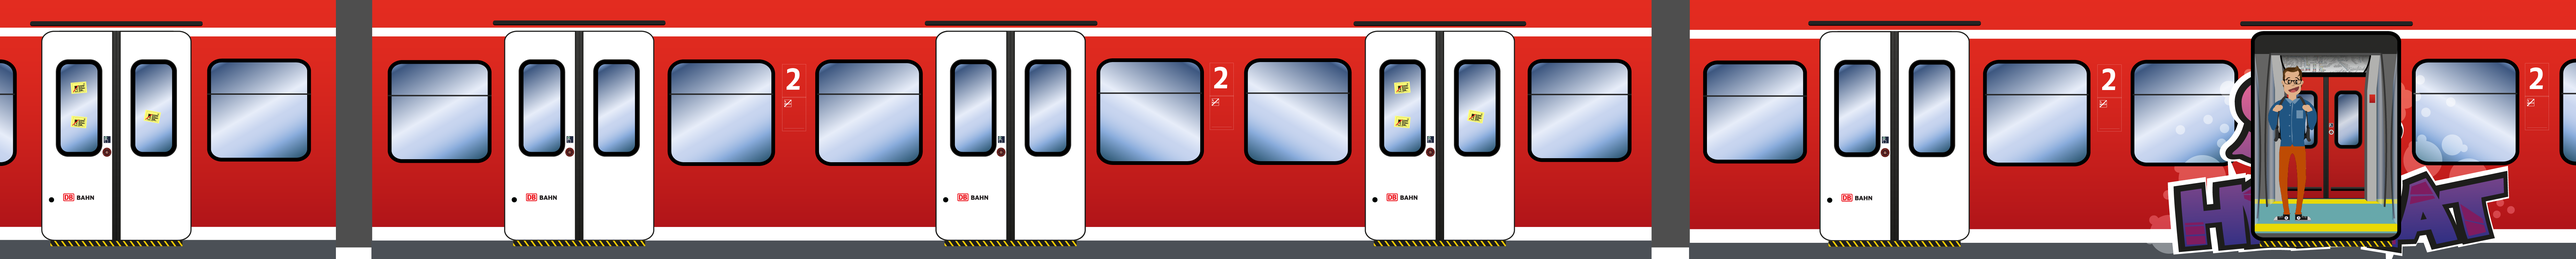
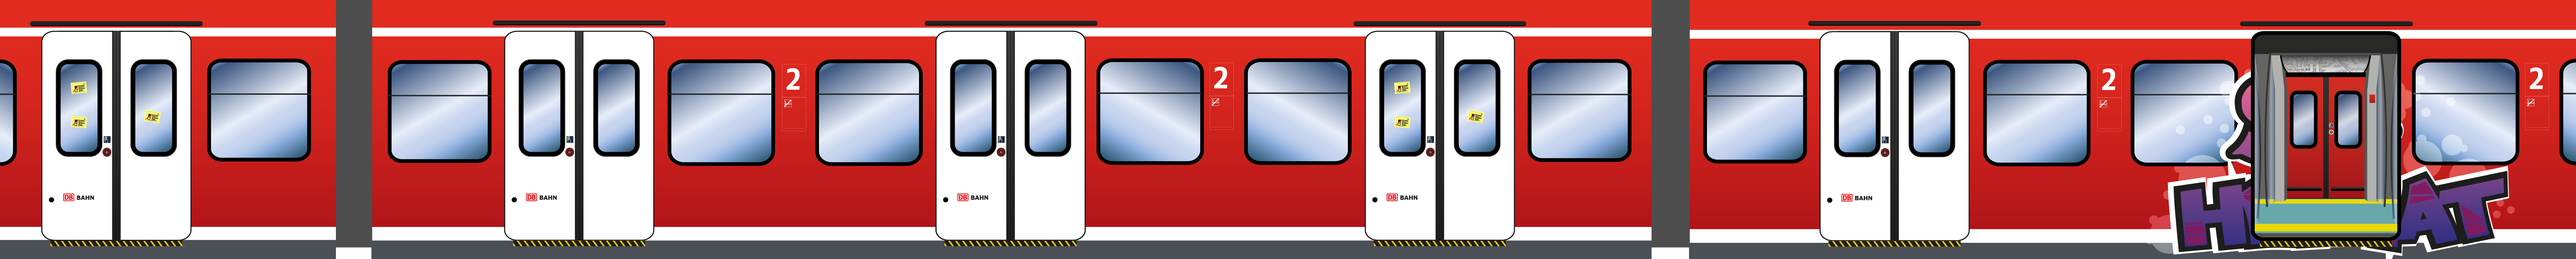
Aktuelle Bilder Intro

Changed region(s): [[0.8714, 0.25, 0.9026, 0.875]]

diff --git a/index.html b/index.html
@@ -112,9 +112,12 @@
          data-12500="transform:translateX(-126.5vw); opacity: 1;"
          data-15000="opacity: 0; display:none;">
 
-        <section id="zug"
-                 data-0="background-image: url('img/intro/bahn_ohne_tuer.png')"
-                 data-3750="background-image: url('img/intro/bahn_ohne_tuer_winken.png')"></section>
+        <section id="zug"></section>
+
+        <div id="s1_tim" data-0="display:block"
+             data-2500="transform:translateX(439vw)"
+             data-7500="display:none">
+        </div>
 
         <section class="container" id="left_door" data-0="transform:translateX(404.5vw);"
                  data-2500="transform:translateX(390vw);"

diff --git a/css/index.css b/css/index.css
@@ -163,7 +163,19 @@ nav:hover, nav a:hover .nav_name, nav a:hover .nav_name div {
     background-repeat: no-repeat;
     background-size: contain;
     position: absolute;
+    background-image: url("../img/intro/bahn_ohne_tuer.png");
 }
+
+#s1_tim {
+    top: 12vw;
+    width: 15vw;
+    height: 32vw;
+    background-image: url("../img/intro/hauptcharakter_rucksackgriff-01.png");
+    background-repeat: no-repeat;
+    background-size: contain;
+    position: absolute;
+}
+
 
 #left_door div{
     width: 47vw;
